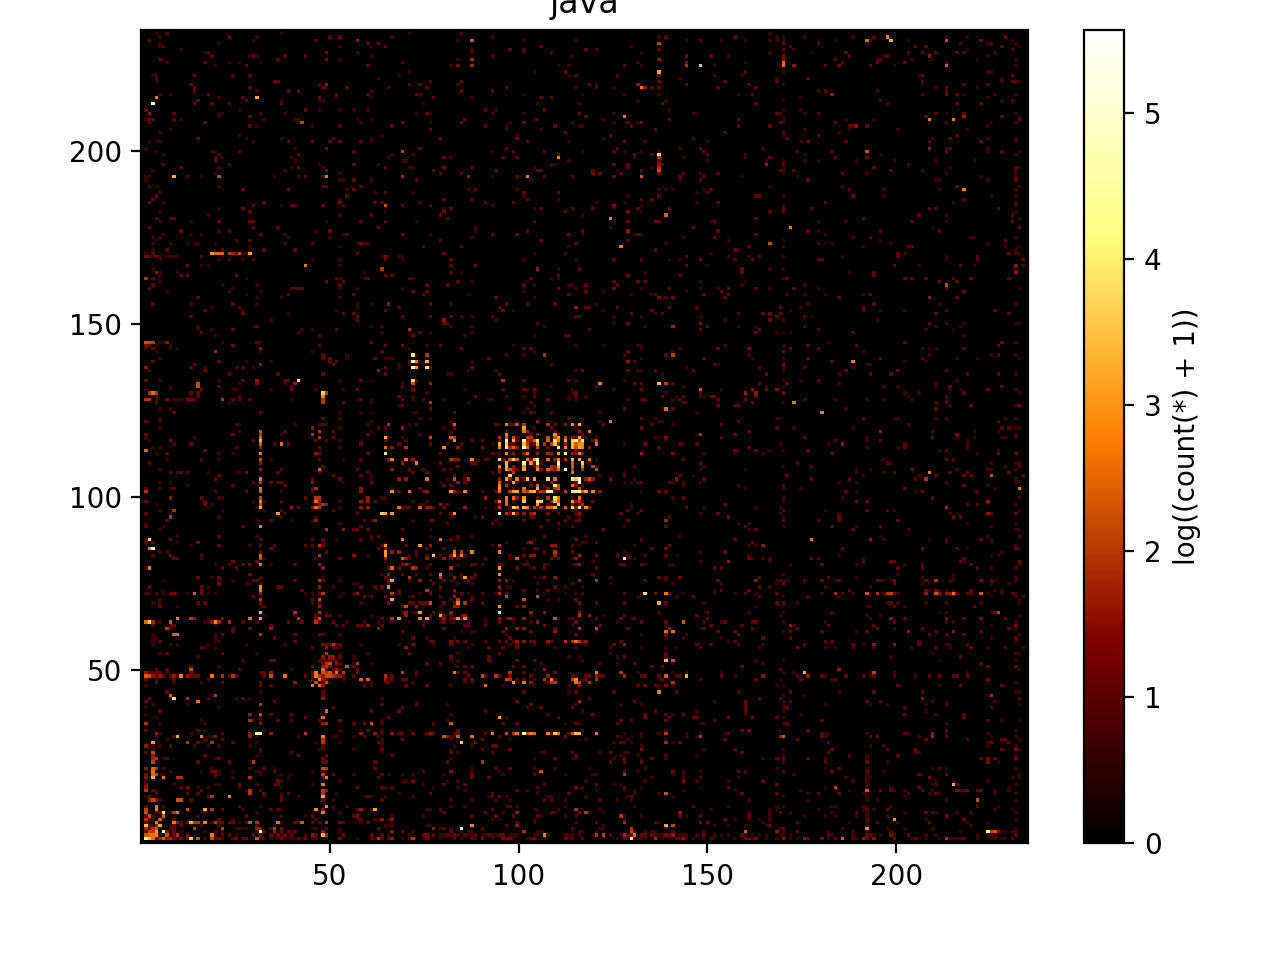
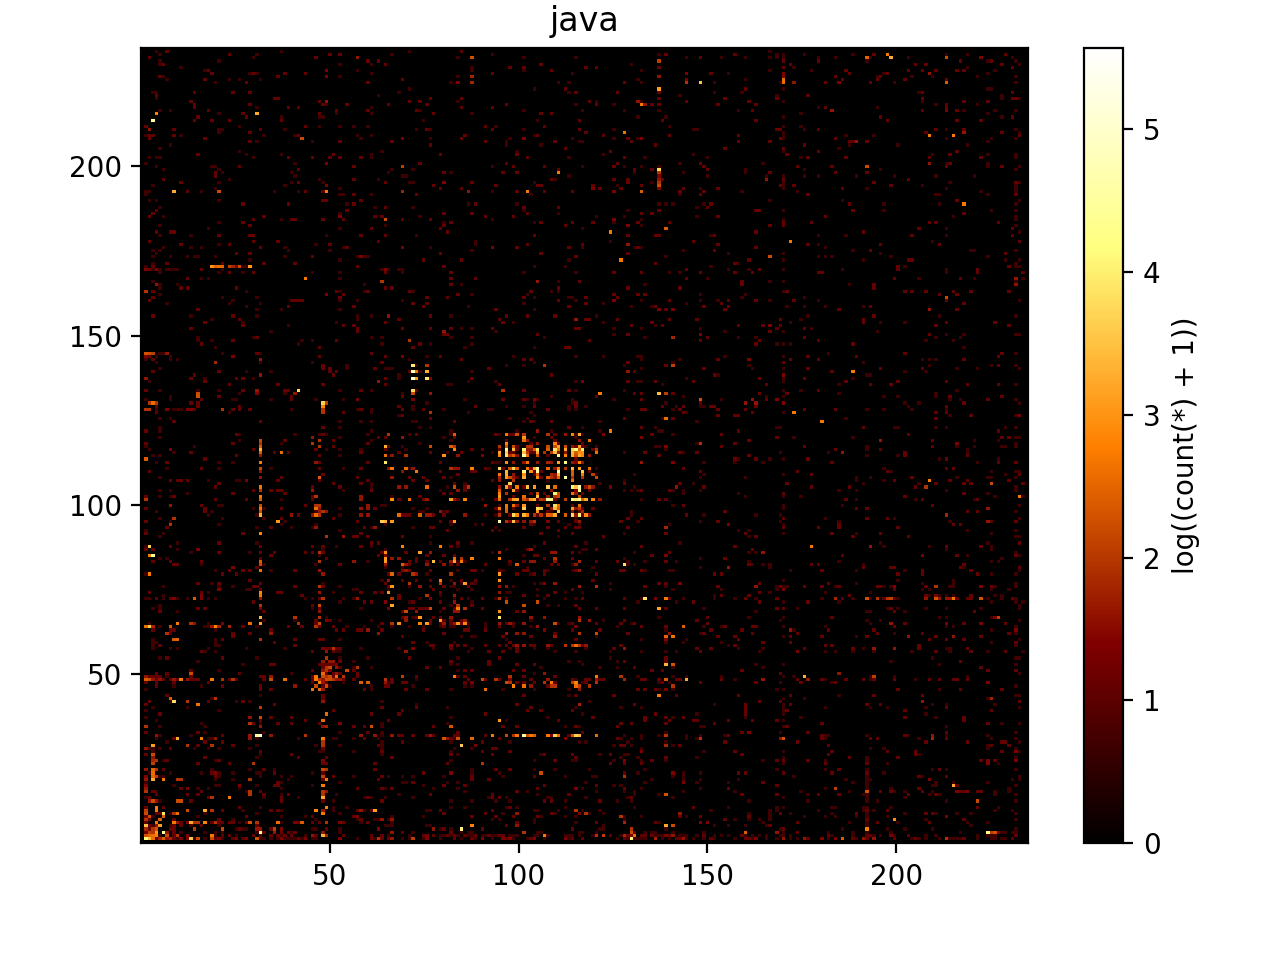
fix plot title spacing

diff --git a/vis.py b/vis.py
@@ -37,6 +37,9 @@ def vaexPlot(data, dims = 2):
 
 def beautifyPlot(file):
     ax = plt.gca()
+    fig = ax.get_figure()
+    fig.tight_layout()
+    fig.subplots_adjust(top=0.95)
     ax.set_title(f"{os.path.basename(file)}")
     ax.set_xlabel("")
     ax.set_ylabel("")
